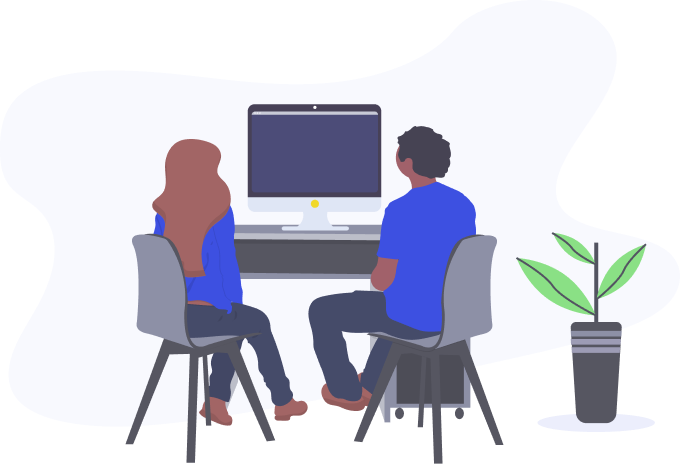
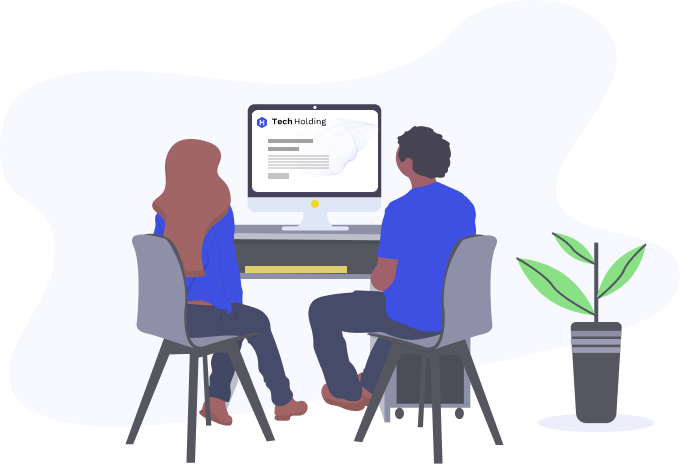
feat: WIP

Changed region(s): [[0.3706, 0.2112, 0.5559, 0.4224], [0.3397, 0.5733, 0.525, 0.6034]]

diff --git a/_layouts/home.html b/_layouts/home.html
@@ -3,9 +3,19 @@ layout: main
 ---
 
 <div class="MainContent">
-  <ul>
-    {% for repository in site.github.public_repositories %}
-    <li><a href="{{ repository.html_url }}">{{ repository.name }}</a></li>
+  <section class="ProjectList">
+    <h2 class="ProjectList__Title">Explore Tech Holding Labs Projects</h2>
+    {% for project in site.featured %}
+    <article class="Project">
+      <aside class="Project__Image">
+        <img src="{{ project.image | default: 'assets/img/default.png' | relative_url }}" />
+      </aside>
+      <div class="Project__Content">
+        <h3 class="Project__Title">{{ project.name }}<span class="Project__TitleDot">.</span></h3>
+        <p class="Project__Desc">{{ project.desc }}</p>
+        <a  class="Project__Link" href="{{ site.github.owner_url }}/{{ project.repo_slug }}">Learn More</a>
+      </div>
+    </article>
     {% endfor %}
-  </ul>
+  </section>
 </div>

diff --git a/_sass/labs/_layout.sass b/_sass/labs/_layout.sass
@@ -79,3 +79,49 @@
   li
     flex: 0 0 calc(100% / 10)
 
+
+/**
+ * Project List
+ */
+.ProjectList
+  &__Title
+    font-size: 3rem
+    font-weight: 500
+    text-transform: uppercase
+    color: $dark-text-color
+    text-align: center
+
+.Project
+  display: flex
+  flex-flow: row nowrap
+  justify-content: space-between
+  margin: 10rem 0
+  &:nth-of-type(even)
+    flex-flow: row-reverse nowrap
+  
+  &__Image
+    flex: 0 0 calc(100% / 2 - 40px)
+
+  &__Content
+    flex: 0 0 calc(100% / 2 - 40px)
+
+  &__Title
+    font-weight: 500
+    font-size: 5rem
+  &__TitleDot
+    color: $brand-color
+    
+  &__Desc
+    font-size: 3rem
+
+  &__Link
+    display: inline-block
+    background-color: $brand-color
+    color: $text-color
+    border-radius: 5px
+    font-size: 3rem
+    padding: 2rem
+    line-height: 1
+    &:visited, &:hover
+      text-decoration: none
+      color: $text-color

diff --git a/_sass/labs/skin.sass b/_sass/labs/skin.sass
@@ -1,6 +1,6 @@
 @charset "utf-8"
 
-$brand-color:           #999999 !default
+$brand-color:           #3D50E1 !default
 $brand-color-light:     lighten($brand-color, 5%) !default
 $brand-color-dark:      darken($brand-color, 35%) !default
 
@@ -12,7 +12,7 @@ $text-color:            #FFFFFF !default
 $dark-text-color: #908E9A !default
 $background-color:      #0C102D !default
 $dark-background-color: #050716 !default
-$code-background-color: #212121 !default
+$code-background-color: #292C3E !default
 
 $link-base-color:       #3D50E1 !default
 $link-visited-color:    $link-base-color !default
@@ -35,4 +35,4 @@ $table-border-color:    $border-color-01 !default
 // https://github.com/material-theme/vsc-material-theme/blob/master/scripts/generator/color-set.ts
 // ----------------------------------------------------------------------------
 
-@import "labs/_highlight"
+@import "labs/highlight"

diff --git a/_includes/mainheader.html b/_includes/mainheader.html
@@ -11,14 +11,14 @@
         </a>
       </div>
     </header>
-    <!-- <section>
+    <section>
       <article class="SiteHeader__Project">
-        <h1 class="SiteHeader__Title">{{ site.title | escape }}</h1>
-        <p class="SiteHeader__Desc">{{ site.description | escape }}</p>
+        <h1 class="SiteHeader__Title">Ideas, code, test, release, repeat >_</h1>
+        <p class="SiteHeader__Desc">This is the space for our experimentations, and other projects meant to help us in our work. May they help you too.</p>
       </article>
       <aside class="SiteHeader__ProjectImage">
         <img src="{{ site.image | default: 'assets/img/default.png' | relative_url }}" />
       </aside>
-    </section> -->
+    </section>
   </div>
 </header>

diff --git a/_sass/labs/_base.sass b/_sass/labs/_base.sass
@@ -148,9 +148,11 @@ pre
   
 
 .highlight
-  border-radius: 3px
+  border-radius: 10px
   background: $code-background-color
   @extend %vertical-rhythm
+  font-size: 3rem
+  font-weight: normal
 
   .highlighter-rouge &
     background: $code-background-color

diff --git a/project/index.md b/project/index.md
@@ -2,4 +2,42 @@
 layout: default
 ---
 
-Project Page
+AWS Lambda Memory
+Check what lambda run out of memory
+
+You can either scan all your lambdas or provide a function name to check if you ran out of memory.
+Memda relies on a ~/.aws/credentials and / or ~/.aws/config
+
+## Installation
+
+```sh
+brew install TechHoldingLLC/tap/memda
+```
+or 
+```sh
+brew tap TechHoldingLLC/tap
+brew install memda
+```
+
+## Usage
+
+Usage:
+```sh
+memda --region us-east-1 --all
+```
+
+Using a profile
+```sh
+memda --region us-east-1 --profile prod --all
+```
+
+For a specific lambda
+```sh
+memda --region us-east-1 --lambda my-function-name
+```
+
+And always:
+```sh
+memda -h
+```
+
